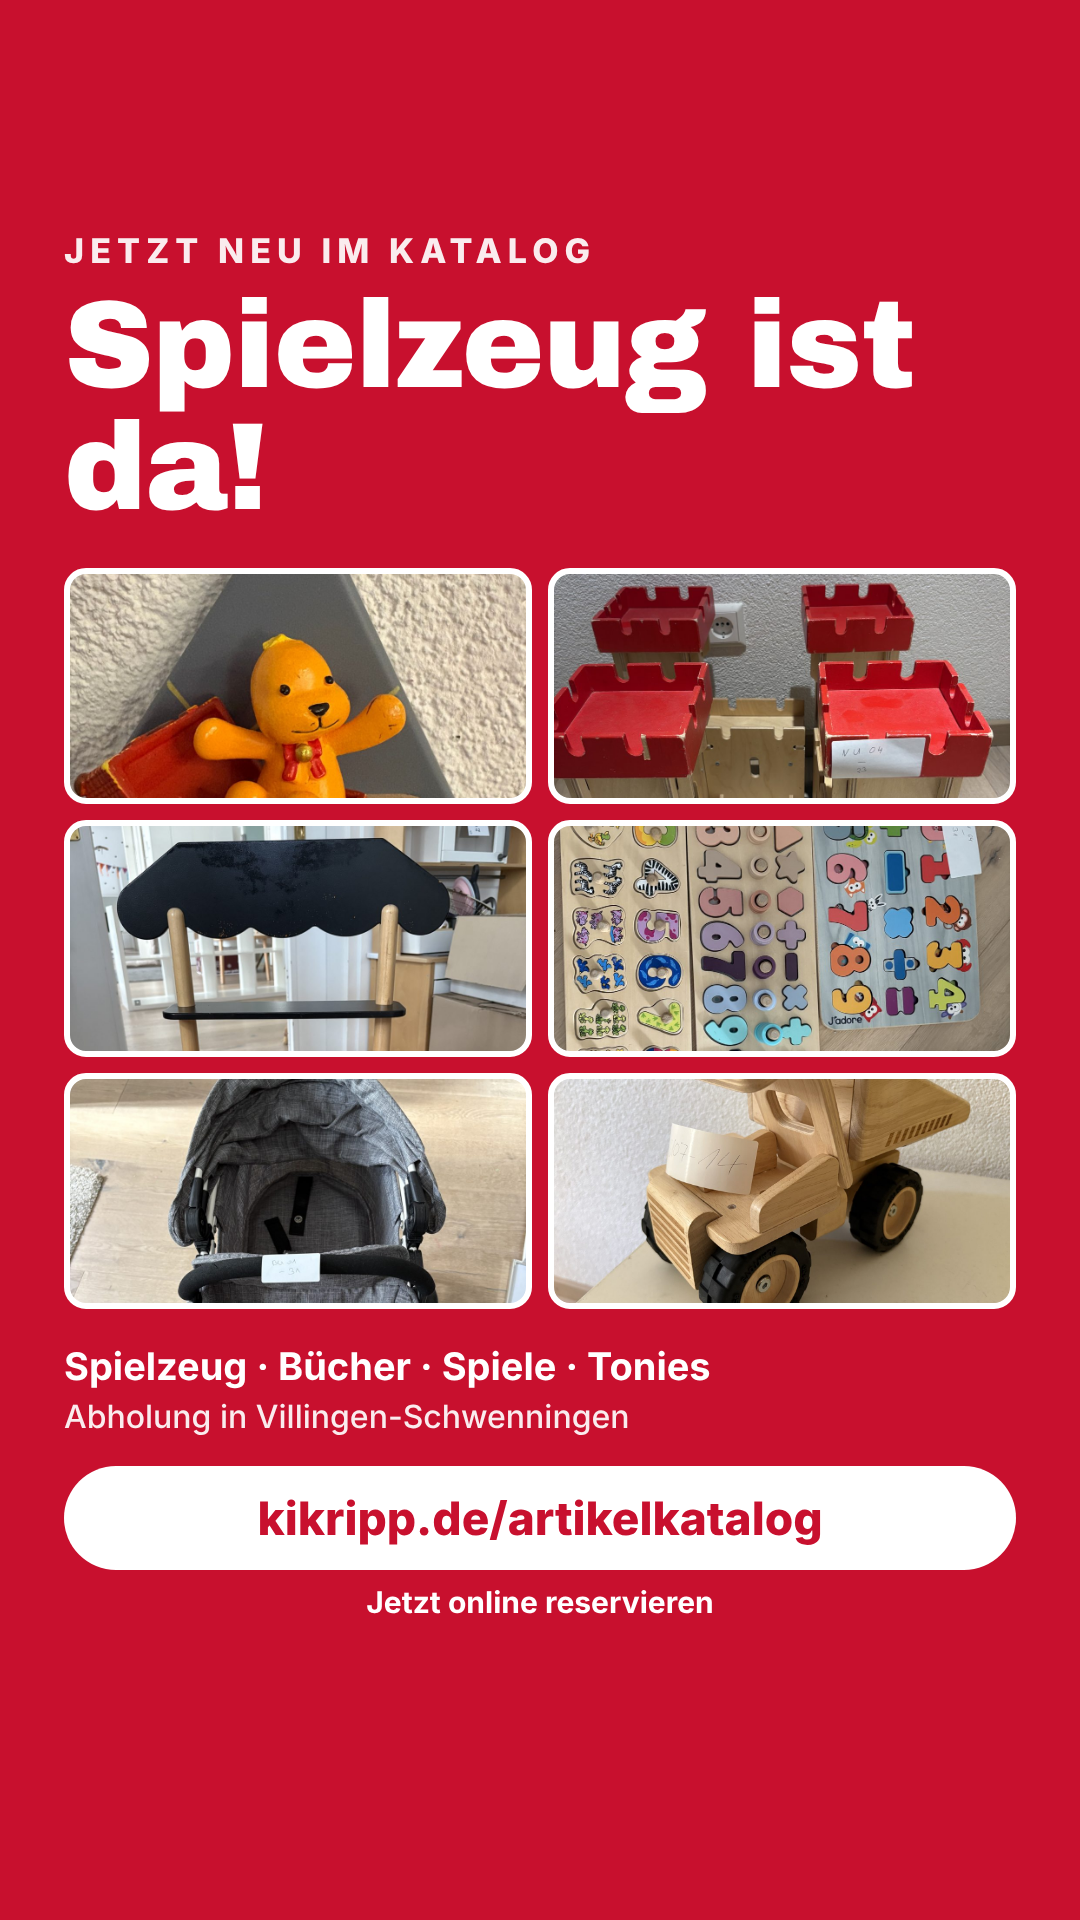
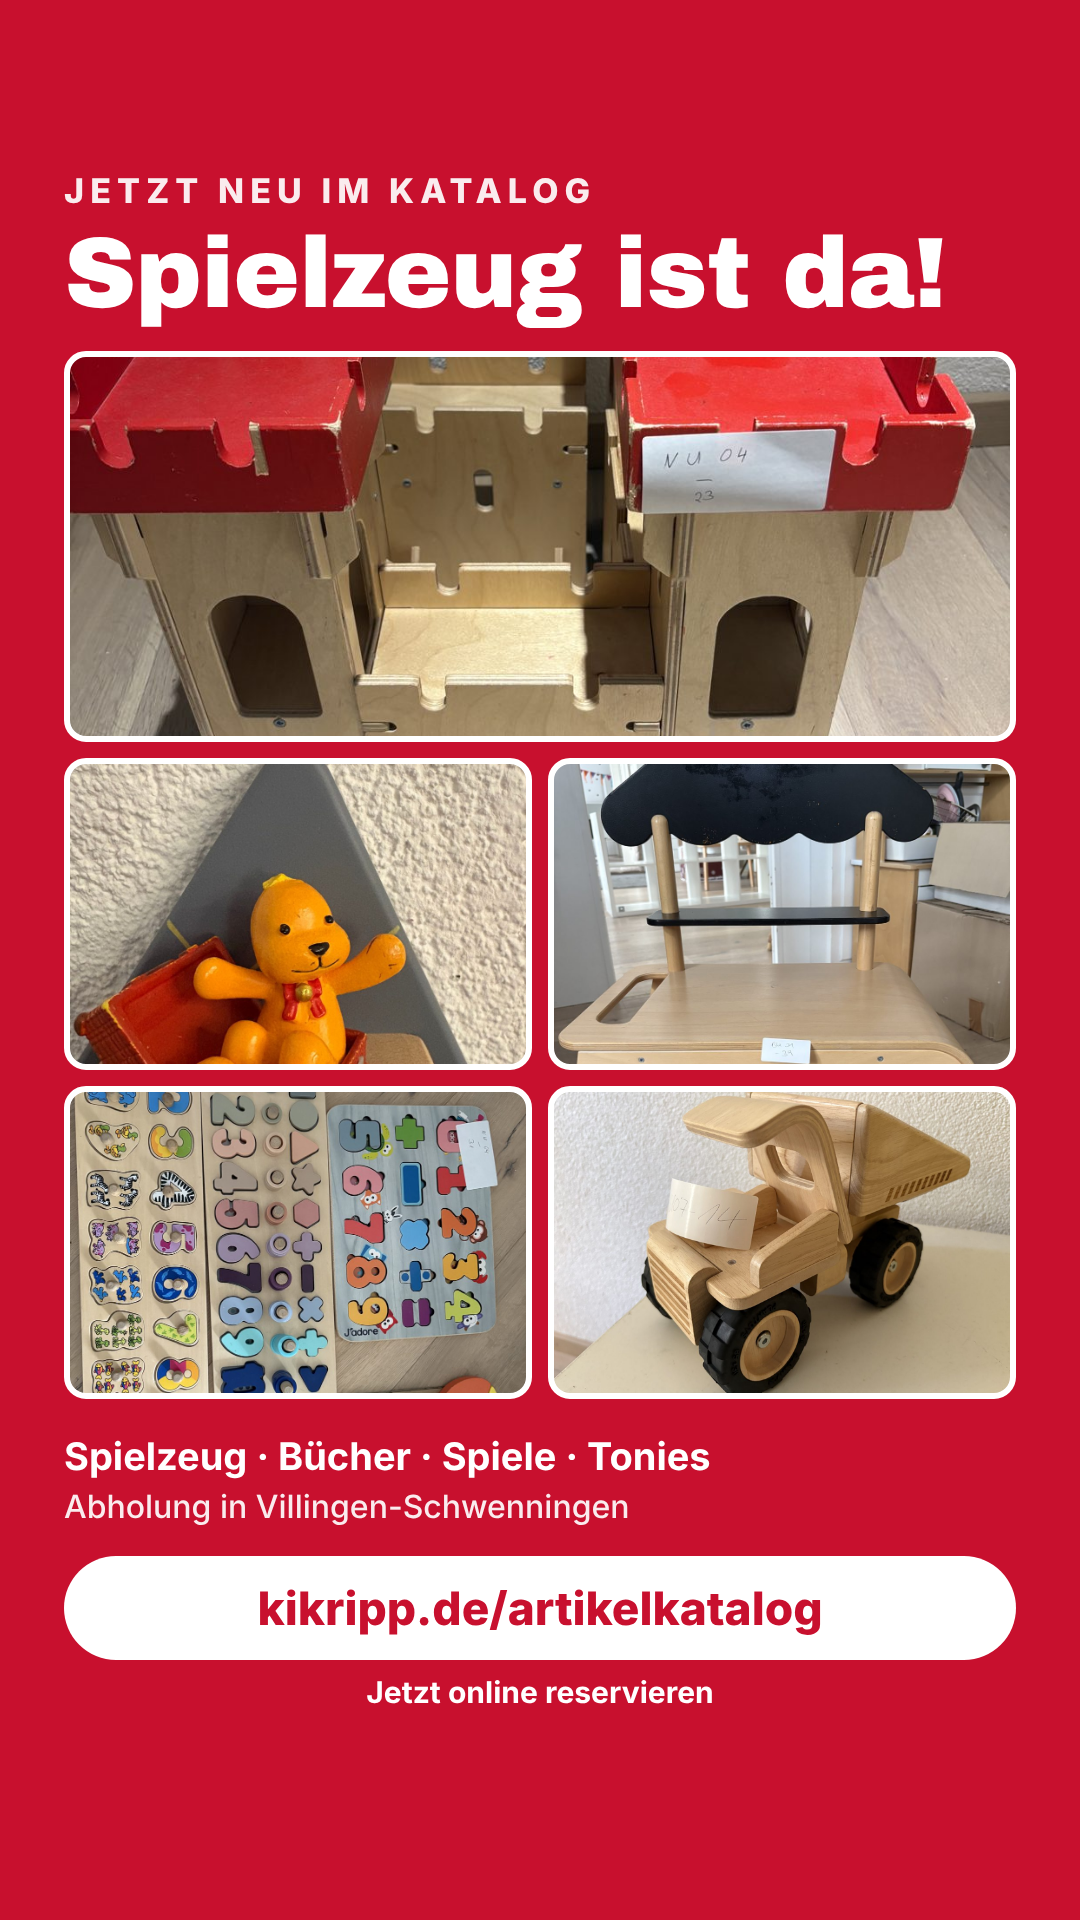
Spielzeug-Story: großes Foto oben, 2×2 darunter, weniger Rand
Claude-Session: https://claude.ai/code/session_01QP7Sc5ZeJ82gp6Vfam16oH

diff --git a/scripts/build_social.py b/scripts/build_social.py
@@ -37,9 +37,10 @@ MOTIVE = [
      "Bilder · Leuchten · Schwarzwald-Charme"),
     ("6_Story_Spielzeug_November", "story", "Bald im Katalog", "Spielzeug ab November",
      [], "Jetzt schon reinschauen – Möbel, Kita, Garten und Deko gibt es ab sofort"),
-    ("8_Story_Spielzeug_online", "story", "Jetzt neu im Katalog", "Spielzeug ist da!",
-     [("F-878", "50% 45%"), ("F-901", "50% 35%"), ("F-884", "50% 8%"),
-      ("F-909", "50% 40%"), ("F-895", "50% 20%"), ("F-843", "50% 55%")],
+    # „held“: ein großes Foto oben über die ganze Breite, darunter 2 × 2 – größere Fotos, weniger Rand
+    ("8_Story_Spielzeug_online", "held", "Jetzt neu im Katalog", "Spielzeug ist da!",
+     [("F-901", "50% 62%"), ("F-878", "50% 40%"), ("F-884", "50% 20%"),
+      ("F-909", "50% 35%"), ("F-843", "50% 55%")],
      "Spielzeug · Bücher · Spiele · Tonies"),
     ("7_Beitrag_Alles_muss_raus", "beitrag", "Inventarverkauf", "Alles muss raus!",
      [("F-019", "50% 60%"), ("F-176", "50% 60%"), ("F-102", "50% 40%"), ("F-017", "50% 72%")],
@@ -62,6 +63,8 @@ h1 { font-family: 'Archivo Black', sans-serif; font-weight: 400; line-height: .9
 .link { margin-top: 30px; background: #fff; color: #C8102E; border-radius: 999px; text-align: center;
         font-weight: 800; font-size: 46px; padding: 24px 20px; }
 .unter { margin-top: 14px; text-align: center; font-size: 30px; font-weight: 700; }
+.held { grid-template-rows: 1.25fr 1fr 1fr; margin-top: 28px; }
+.held div:first-child { grid-column: 1 / 3; }
 .leer { flex: 1; display: flex; align-items: center; justify-content: center; }
 .leer span { font-size: 460px; }
 """
@@ -76,16 +79,18 @@ def schrift(name):
         return "data:font/woff2;base64," + base64.b64encode(f.read()).decode()
 
 def html(fmt, klein, titel, fotos, stich):
-    story = fmt == "story"
+    held = fmt == "held"
+    story = fmt in ("story", "held")
     masse = dict(w=1080, h=1920 if story else 1350,
                  # Story: oben und unten verdecken WhatsApp/Instagram ihre Bedienleisten
-                 oben=230 if story else 64, unten=300 if story else 56,
+                 oben=(170 if held else 230) if story else 64, unten=(210 if held else 300) if story else 56,
                  h1=124 if len(titel) < 18 else 104,
                  archivo=schrift("ArchivoBlack.woff2"), inter=schrift("Inter.woff2"))
     if not story: masse["h1"] = 96
+    if held: masse["h1"] = 100
     kacheln = "".join(f'<div style="background-image:url({bild(nr)});background-position:{pos}"></div>'
                       for nr, pos in fotos)
-    mitte = f'<div class="raster">{kacheln}</div>' if fotos else '<div class="leer"><span>🧸</span></div>'
+    mitte = f'<div class="raster{" held" if held else ""}">{kacheln}</div>' if fotos else '<div class="leer"><span>🧸</span></div>'
     unter = '<div class="unter">Jetzt online reservieren</div>' if story else ""
     return (f"<!doctype html><html><head><meta charset='utf-8'><style>{CSS % masse}</style></head><body>"
             f"<div class='klein'>{klein}</div><h1>{titel}</h1>{mitte}"
@@ -97,7 +102,7 @@ def main():
     with sync_playwright() as p:
         b = p.chromium.launch(executable_path=CHROME)
         for name, fmt, klein, titel, fotos, stich in MOTIVE:
-            h = 1920 if fmt == "story" else 1350
+            h = 1920 if fmt in ("story", "held") else 1350
             s = b.new_page(viewport={"width": 1080, "height": h})
             s.set_content(html(fmt, klein, titel, fotos, stich), wait_until="networkidle")
             s.evaluate("document.fonts.ready.then(() => true)")
